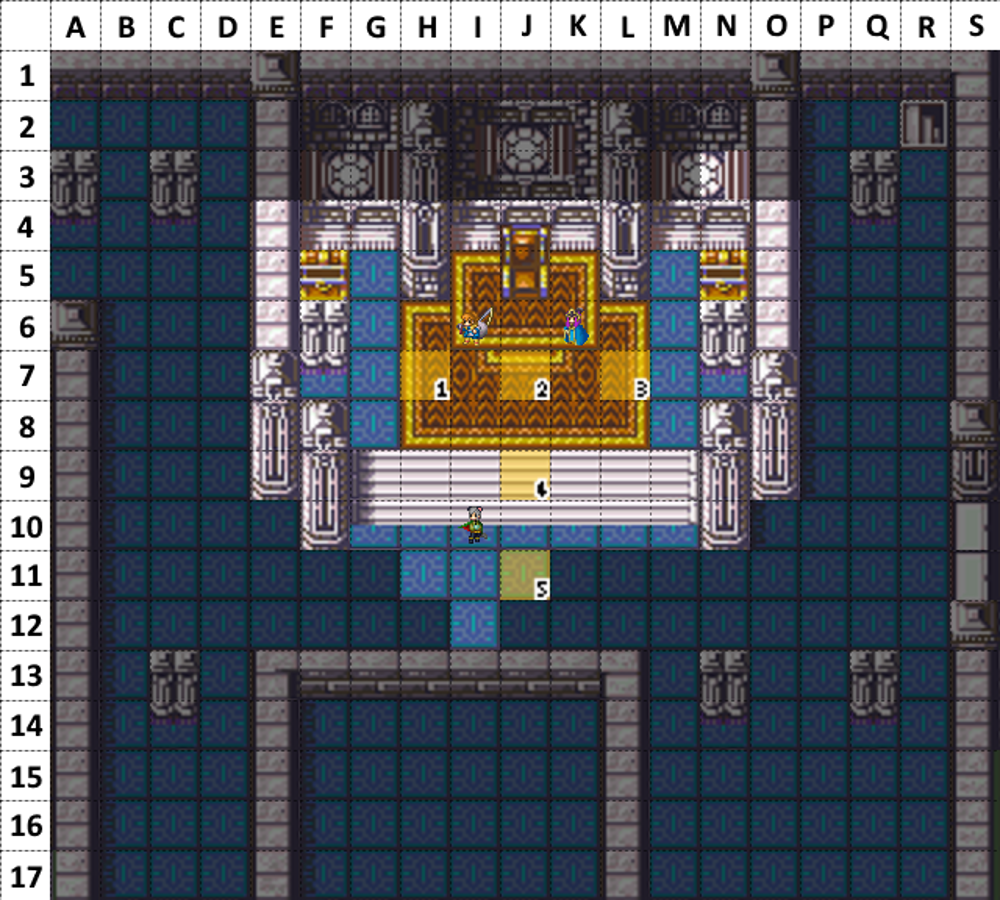
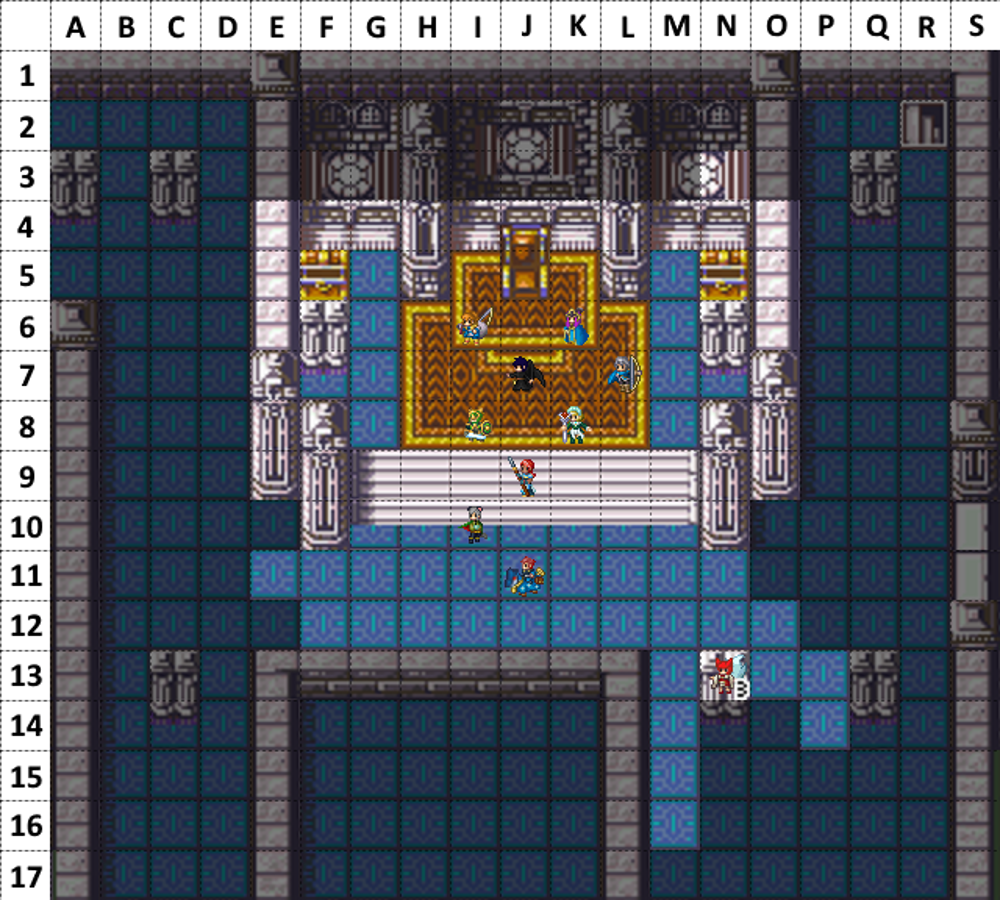
Updated positions for 1-2, 1-1x, and 1-2x.

diff --git a/templates/map.html b/templates/map.html
@@ -30,7 +30,7 @@
 			is_PNG row (the last row) of the appropriate CSV accordingly. #}
 			<img src="/static/Blank.png" alt="Sample sprite" class="Sprite" data-toggle="popover" data-html="true"
 			data-content="
-				<h4>{{ character }}</h4>: {{ CURRENT[loop.index0] }}/{{ MAX[loop.index0] }}
+				<h4>{{ character }}</h4>{{ CURRENT[loop.index0] }}/{{ MAX[loop.index0] }}
 				[Str <span class='value'>{{ STR[loop.index0] }}</span>]
 				[Mag <span class='value'>{{ MAG[loop.index0] }}</span>]
 				[Skl <span class='value'>{{ SKL[loop.index0] }}</span>]

diff --git a/spreadsheet.py b/spreadsheet.py
@@ -1,0 +1,60 @@
+import gspread
+from oauth2client.service_account import ServiceAccountCredentials
+import pprint
+import csv
+
+"""
+This script accesses the RE Team O Google Sheet and
+creates an Excel CSV file with the general stats needed
+for the webapp to function.
+
+NOTE: Personally clean the CSV if Unicode issues arise.
+Also, add rows for "Column", "Row", "Statpack", and
+"is PNG" before splitting the Excel file into a CSV for
+the Main Map and a CSV for the Gaiden map.
+"""
+
+scope = ['https://spreadsheets.google.com/feeds']
+creds = ServiceAccountCredentials.from_json_keyfile_name('client_secret.json', scope)
+client = gspread.authorize(creds)
+
+sheet = client.open('RE:Team O')
+battle_stats = sheet.worksheet("Battle Stats")
+character_info = sheet.worksheet("Character Info")
+enemy_stats = sheet.worksheet("Enemy Stats")
+
+print 'Accessing Battle Stats'
+rows_to_take = []
+rows_to_take.append(battle_stats.row_values(2))
+
+for i in range(4, 15):
+    rows_to_take.append(battle_stats.row_values(i))
+'''
+print 'Accessing Character Info'    
+rows_to_take.append([])
+rows_to_take.append(character_info.row_values(3))
+
+for i in range(21, 27):
+    rows_to_take.append(character_info.row_values(i))
+    
+for i in range(50, 58):
+    rows_to_take.append(character_info.row_values(i))
+'''
+print 'Accessing Enemy Stats'    
+rows_to_take.append([])
+rows_to_take.append(enemy_stats.row_values(1))
+
+for i in range(19, 25):
+    rows_to_take.append(enemy_stats.row_values(i))
+    
+for i in range(46, 53):
+    rows_to_take.append(enemy_stats.row_values(i))
+
+
+print 'Creating file'
+with open('Stats Base.csv', 'wb') as test_file:
+    list = rows_to_take
+    writer = csv.writer(test_file)
+    for row in list:
+        row = [s.encode('utf-8') for s in row]
+        writer.writerows([row])

diff --git a/app.py b/app.py
@@ -187,6 +187,7 @@ Gterrain_list[0][0] = 'Plains'
 #And this one's for the Fog Map Gaiden:
 with open('static/sample3.csv', 'rb') as csvfile:
     rowreader = csv.reader(csvfile)
+    rowreader.next()
     FCharacters = rowreader.next()
     FClass = rowreader.next()
     FMax = rowreader.next()
@@ -254,7 +255,7 @@ def show_shop():
 @app.route('/map')
 def show_map():
     return render_template( 'map.html', 
-                            map='1-2 rescaled.png',
+                            map='1-2.png',
                             TITLE='Chapter 1-2',
                             character_list=Characters,
                             sprite='Anna',
@@ -341,7 +342,7 @@ def show_gaiden():
 def show_fog():
     return render_template( 'map.html', 
                             map='1-1x rescaled.png',
-                            TITLE='Chapter 1-1x',
+                            TITLE='Chapter 1-2x',
                             character_list=FCharacters,
                             sprite=FClass,
                             CURRENT=FCurrent,
